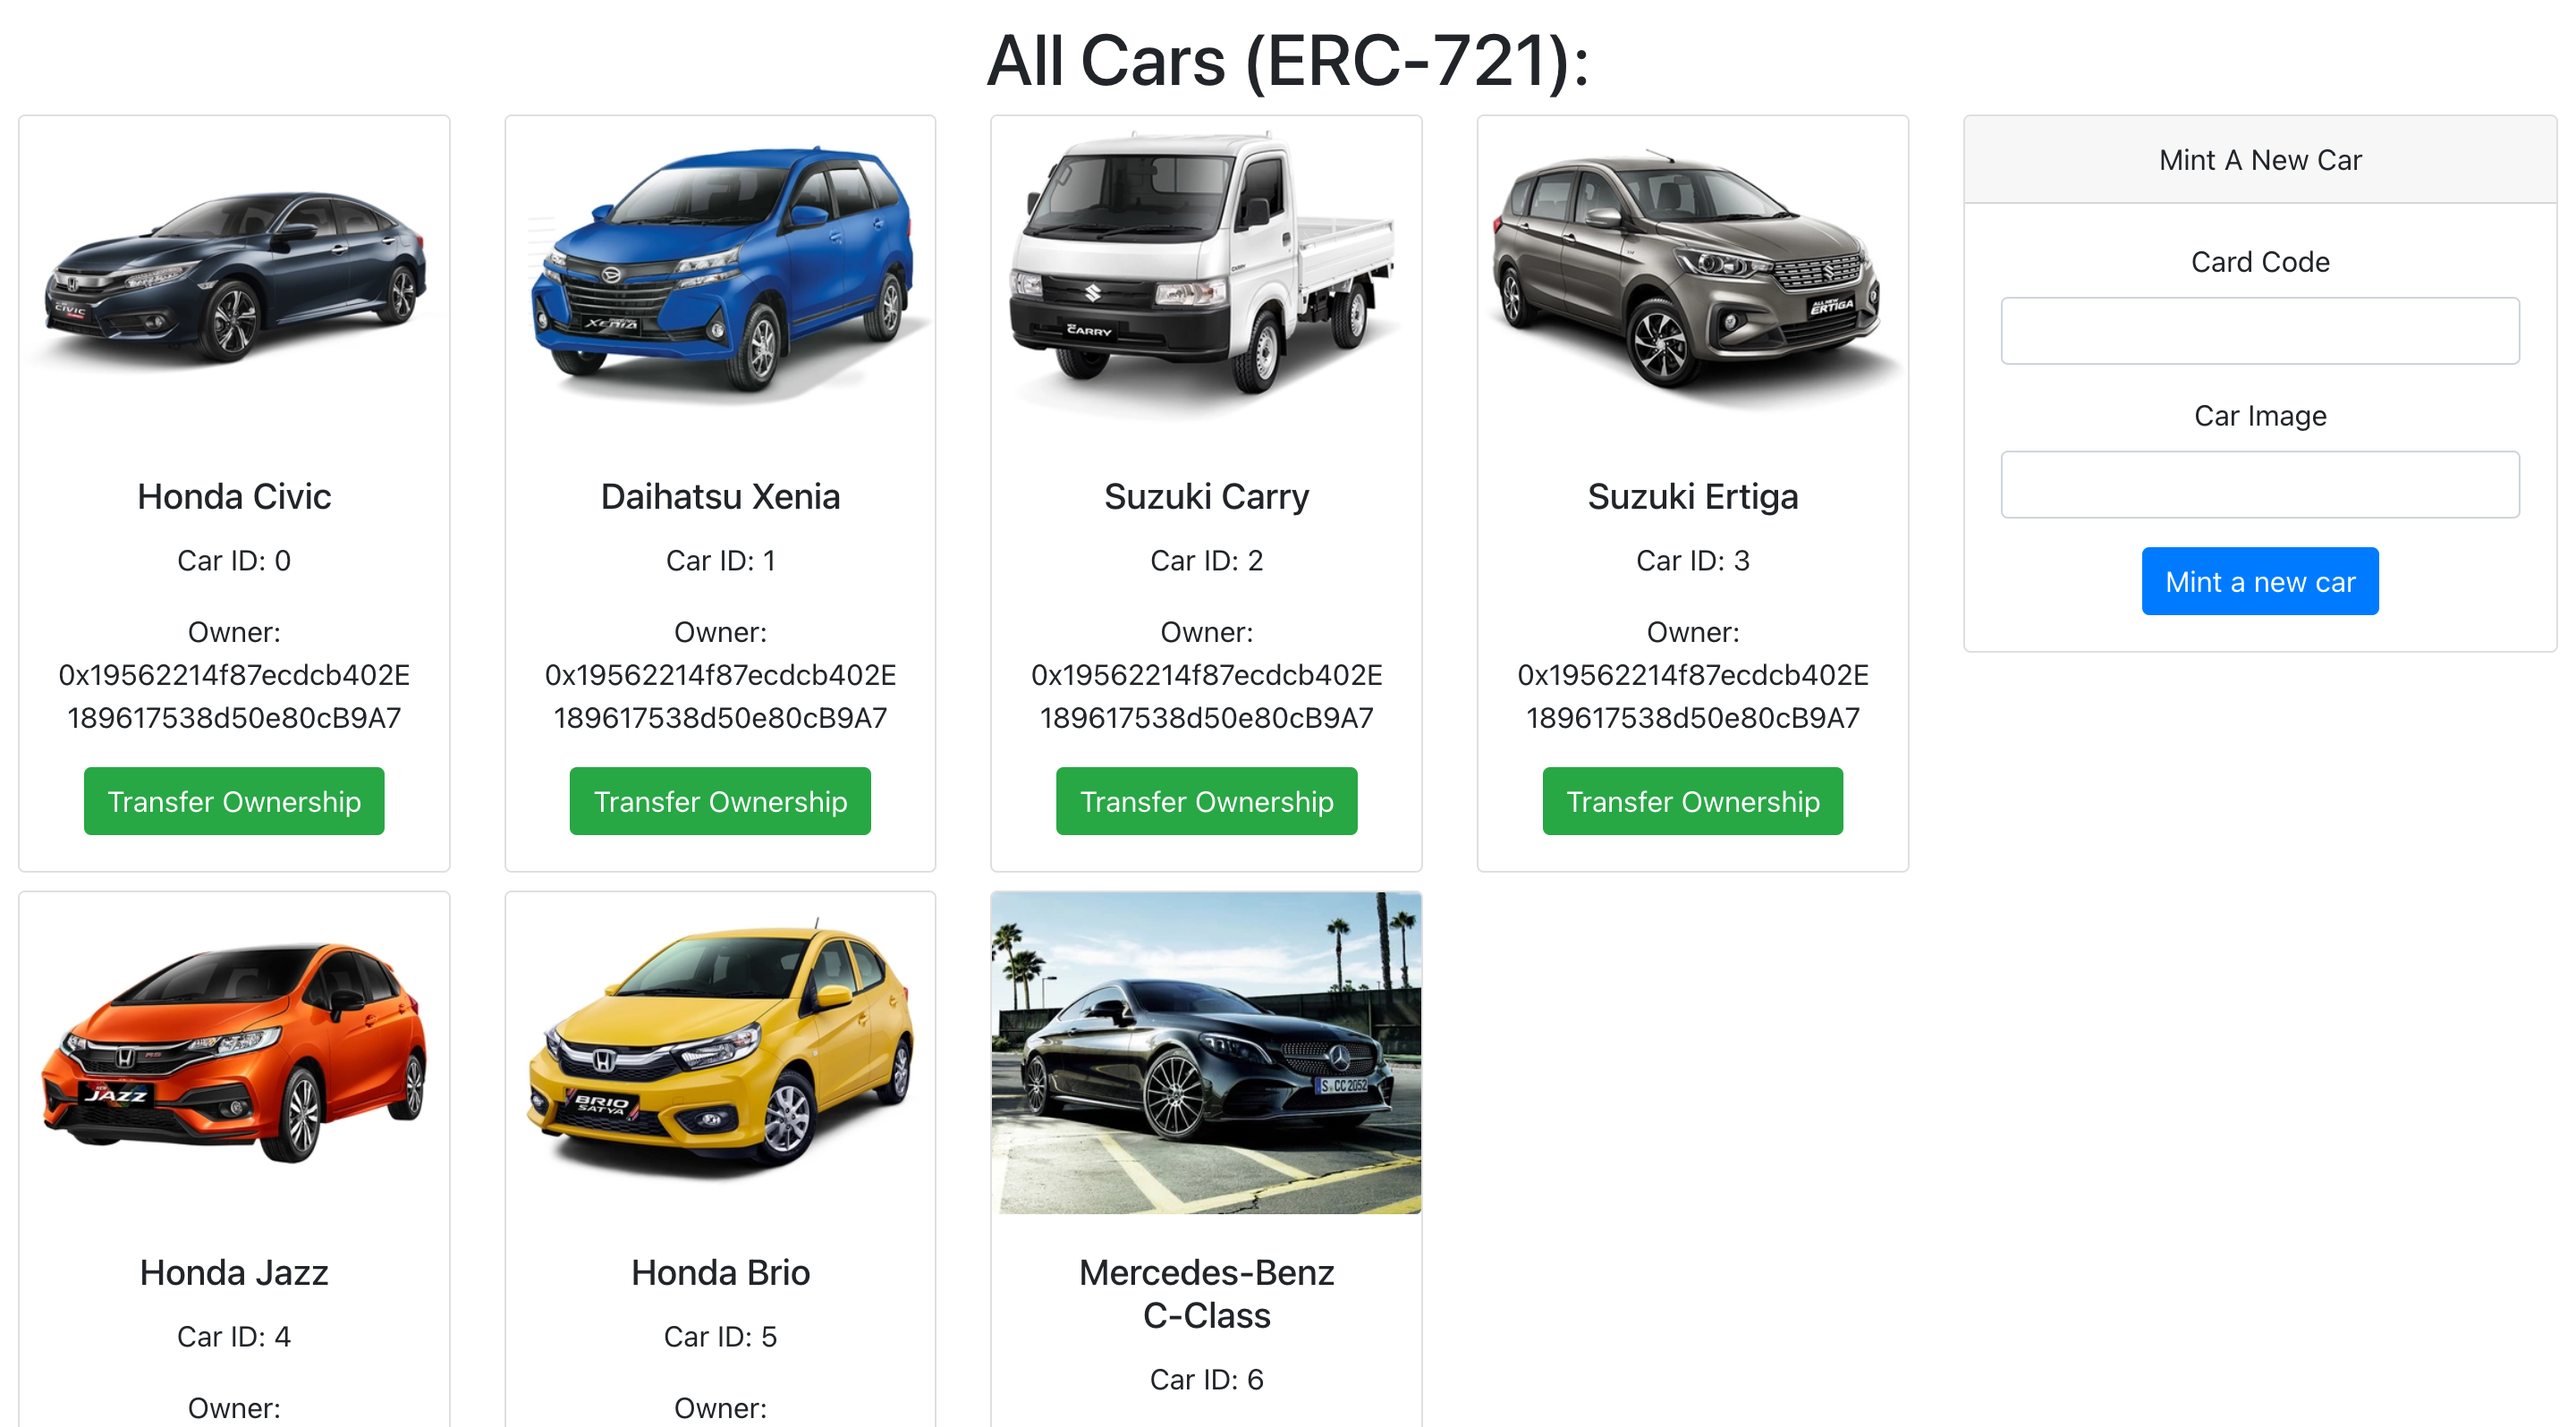
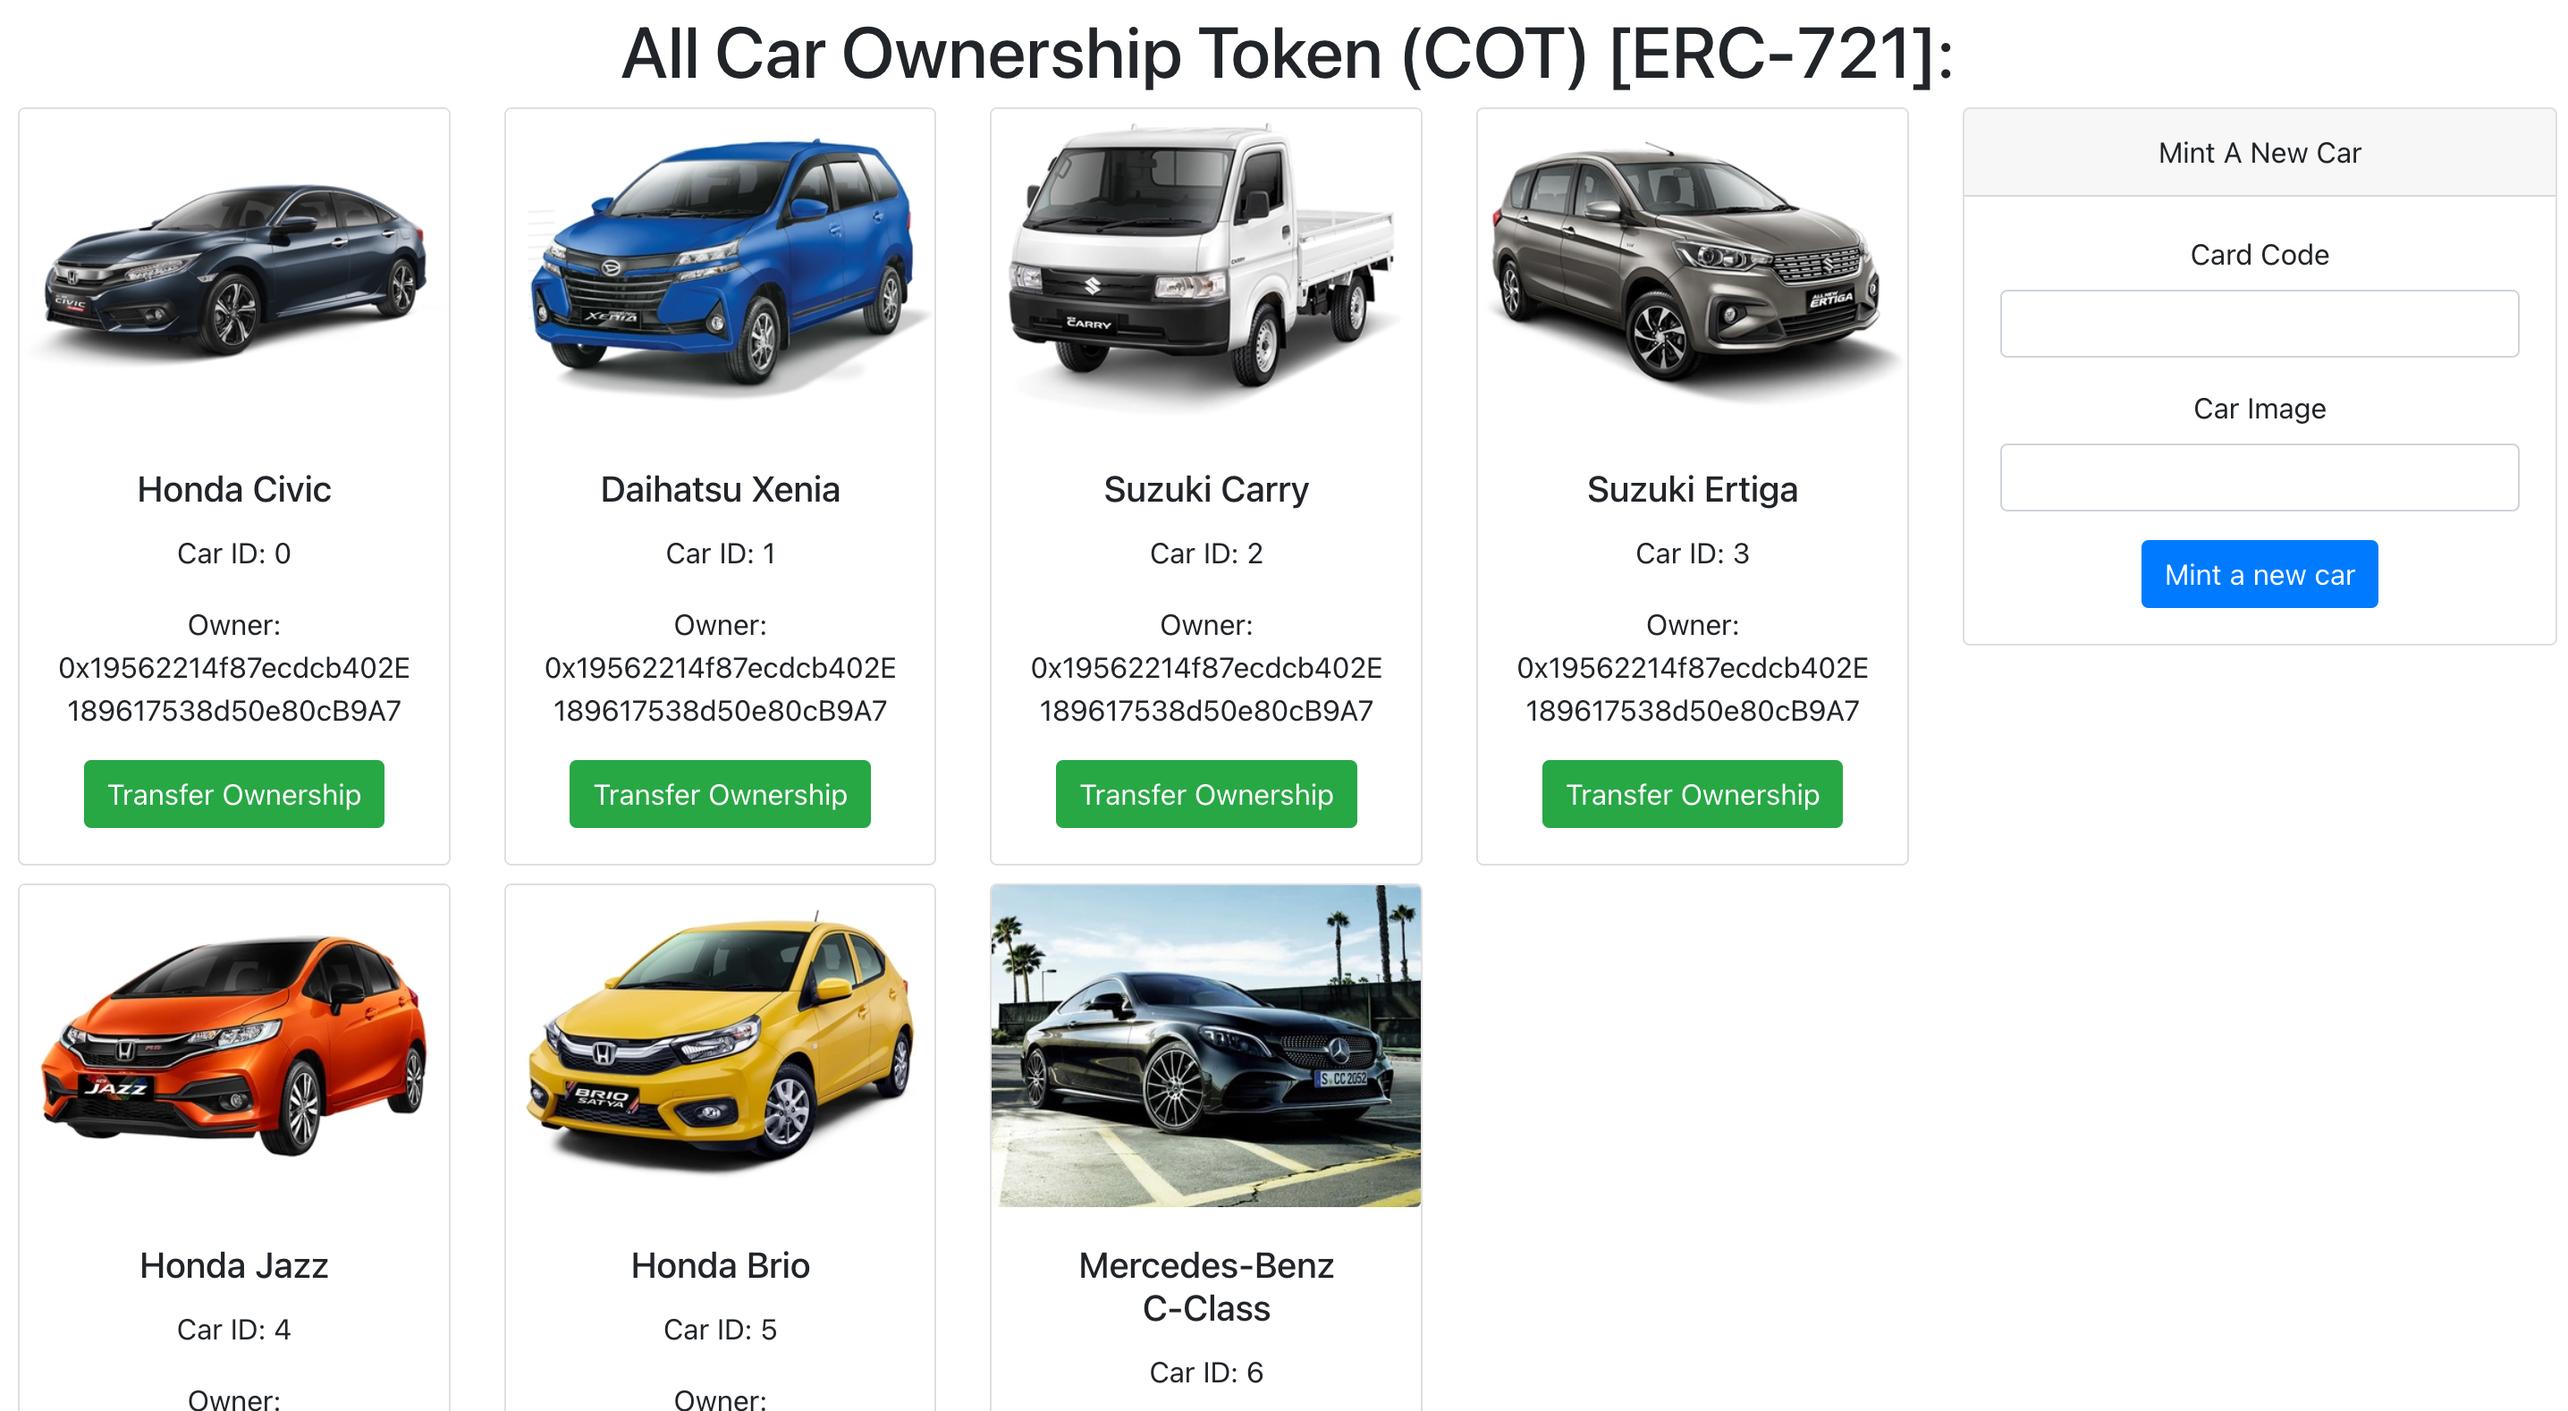
cahnge the demo image used

diff --git a/src/Result.js b/src/Result.js
@@ -75,7 +75,7 @@ class Result extends Component {
     return (
       <div className="App">
         <div style={{ marginTop: '50px', marginBottom: '50px' }}>
-          <h1>All Cars (ERC-721):</h1>
+          <h1>All Car Ownership Token (COT) [ERC-721]:</h1>
           <div style={{ marginLeft: '10px', marginRight: '10px' }}>
             <Row>
               <Col md={9}>
